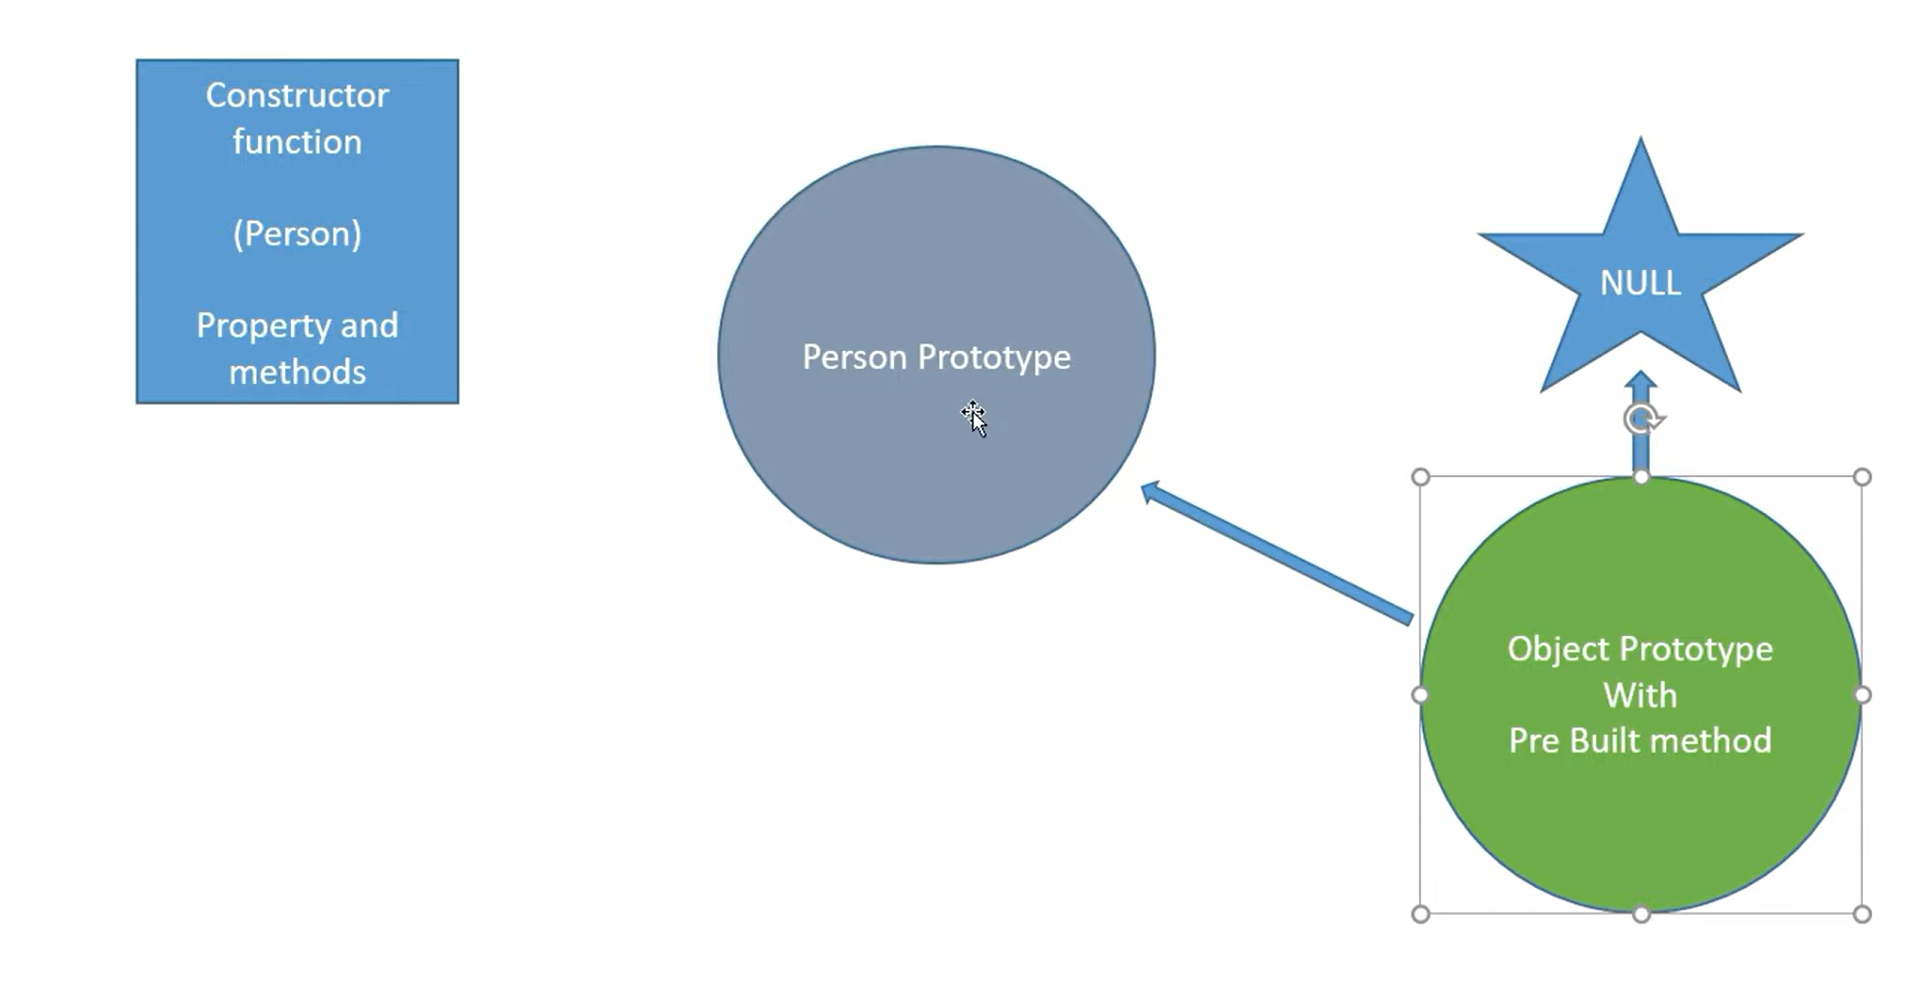
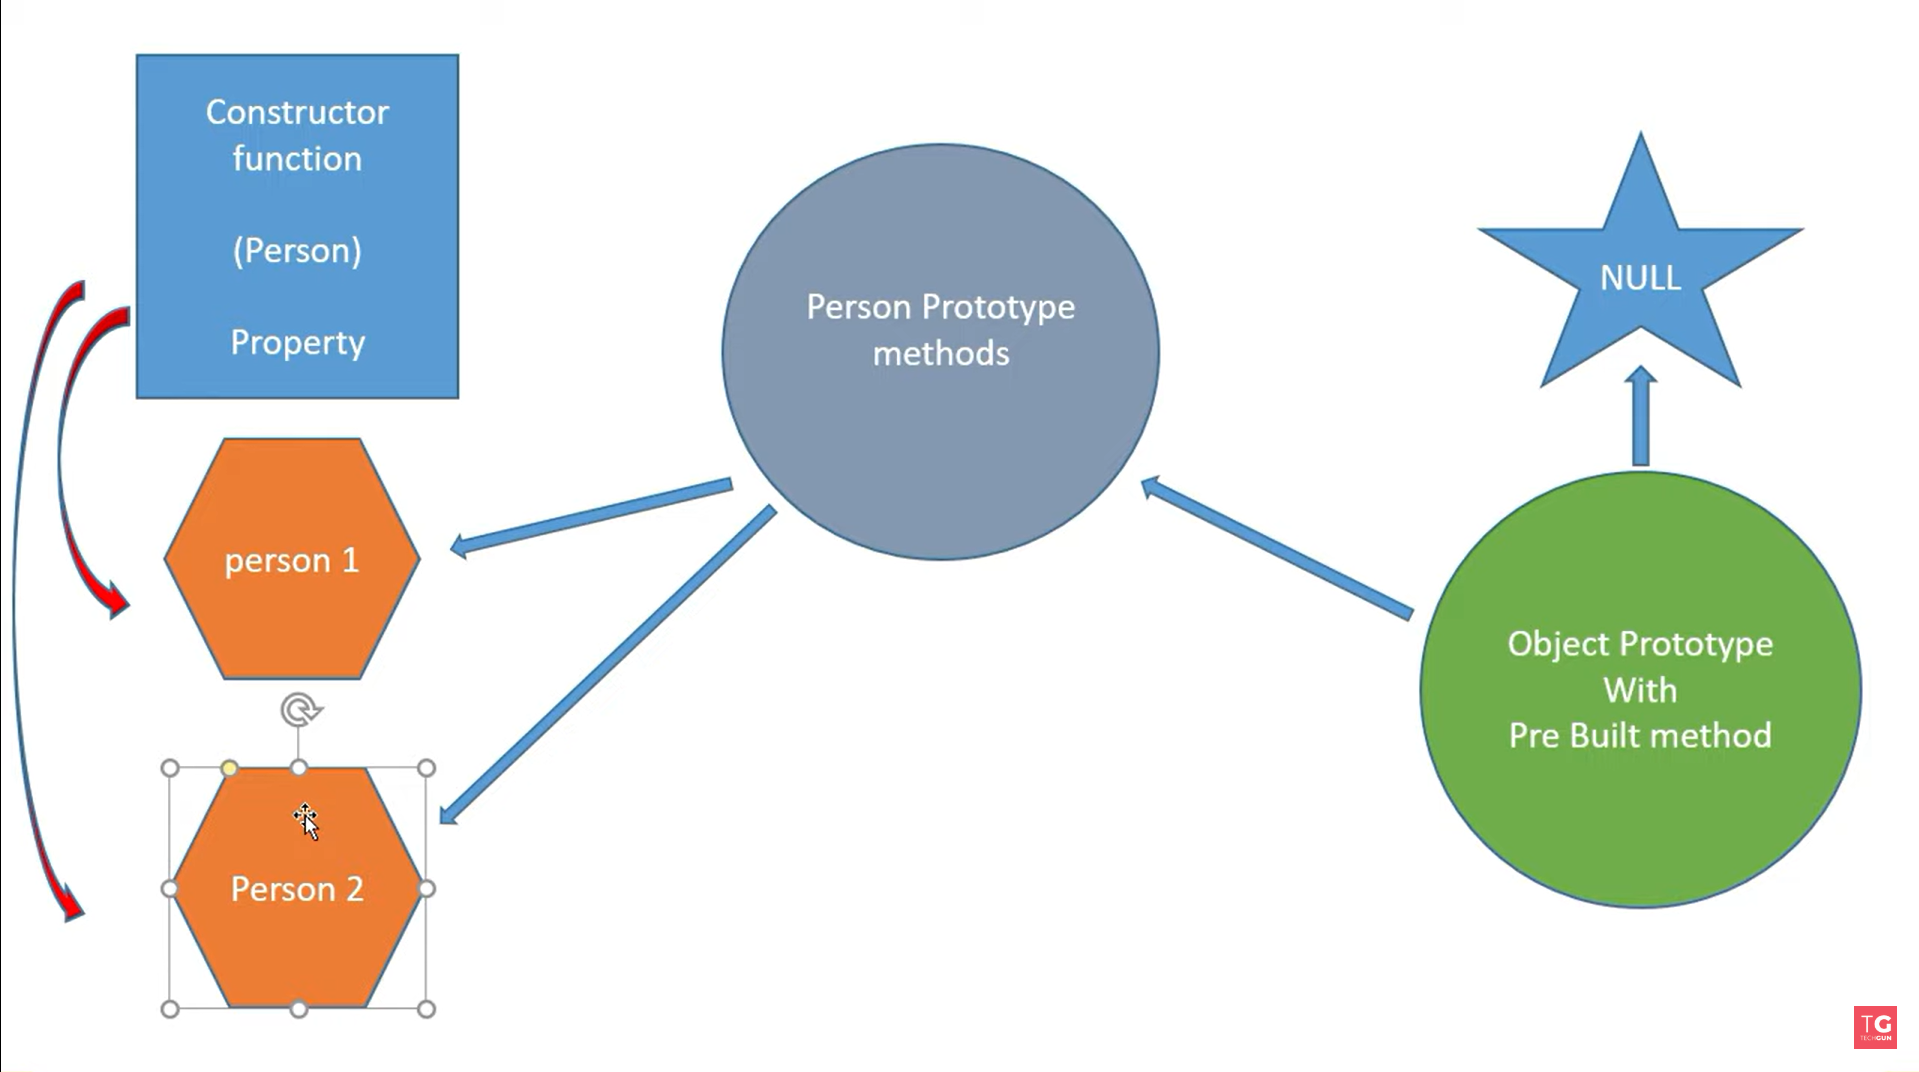
prototype inheritance

diff --git a/example8/js.js b/example8/js.js
@@ -1,0 +1,32 @@
+function creature(ls, yes) {
+  this.lifespan = ls;
+  this.walk = yes;
+}
+creature.prototype.breath = function () {
+  console.log("brething........");
+};
+
+let creature1 = new creature(100, "yes");
+// console.log(creature1);
+
+function person(first, last, a) {
+  this.firstName = first;
+  this.lastName = last;
+  this.age = a;
+}
+
+person.prototype.puraName = function () {
+  console.log(this.firstName + " " + this.lastName);
+};
+
+// person.prototype.__proto__ = Object.create(creature.prototype);
+// creature.prototype.__proto__ = Object.create(person);
+person.prototype.__proto__ = Object.create(creature.prototype);
+
+let person1 = new person("susheel", "Vishwakarma", 22);
+let person2 = new person("vartika", "Bhujbal", 22);
+let person3 = new person("shivam", "Singh", 22);
+
+console.log(person1);
+console.log(person2.puraName());
+console.log(person2.breath());

diff --git a/example8/index.html b/example8/index.html
@@ -1,0 +1,14 @@
+<!DOCTYPE html>
+<html lang="en">
+<head>
+    <meta charset="UTF-8">
+    <meta name="viewport" content="width=device-width, initial-scale=1.0">
+    <title>Document</title>
+</head>
+<body>
+    <h1>prototype (inharitance concept)</h1>
+    <p>for more clearity check broswer console</p>
+</body>
+
+    <script src="./js.js"></script>
+</html>
